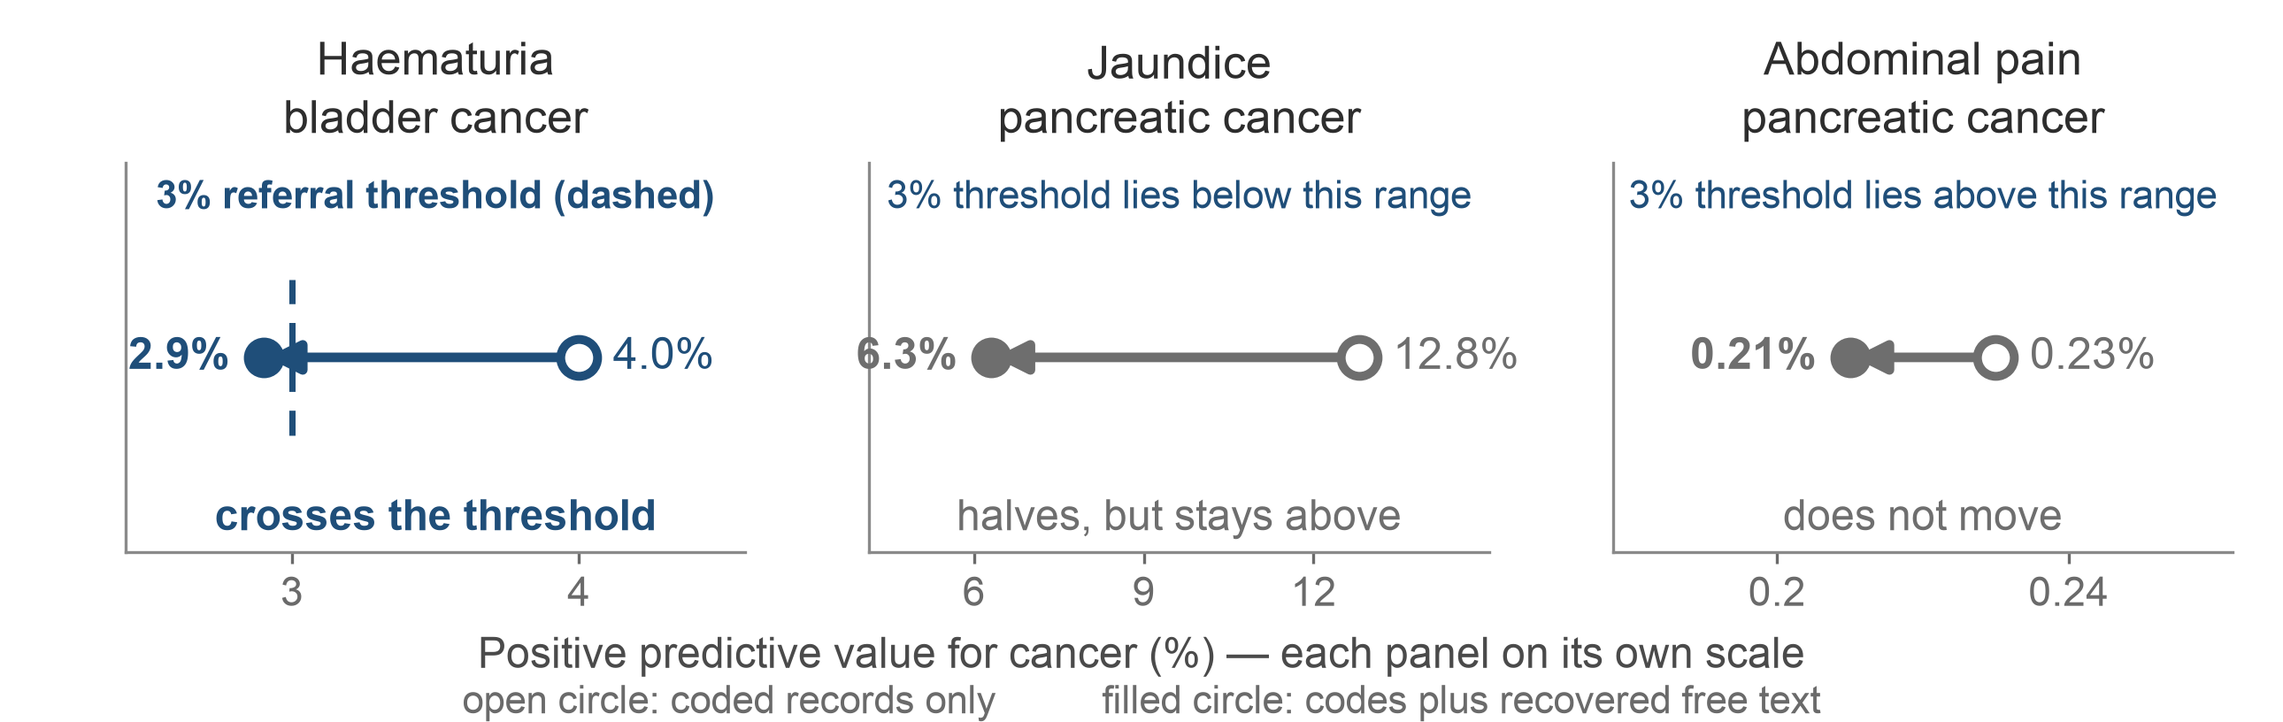
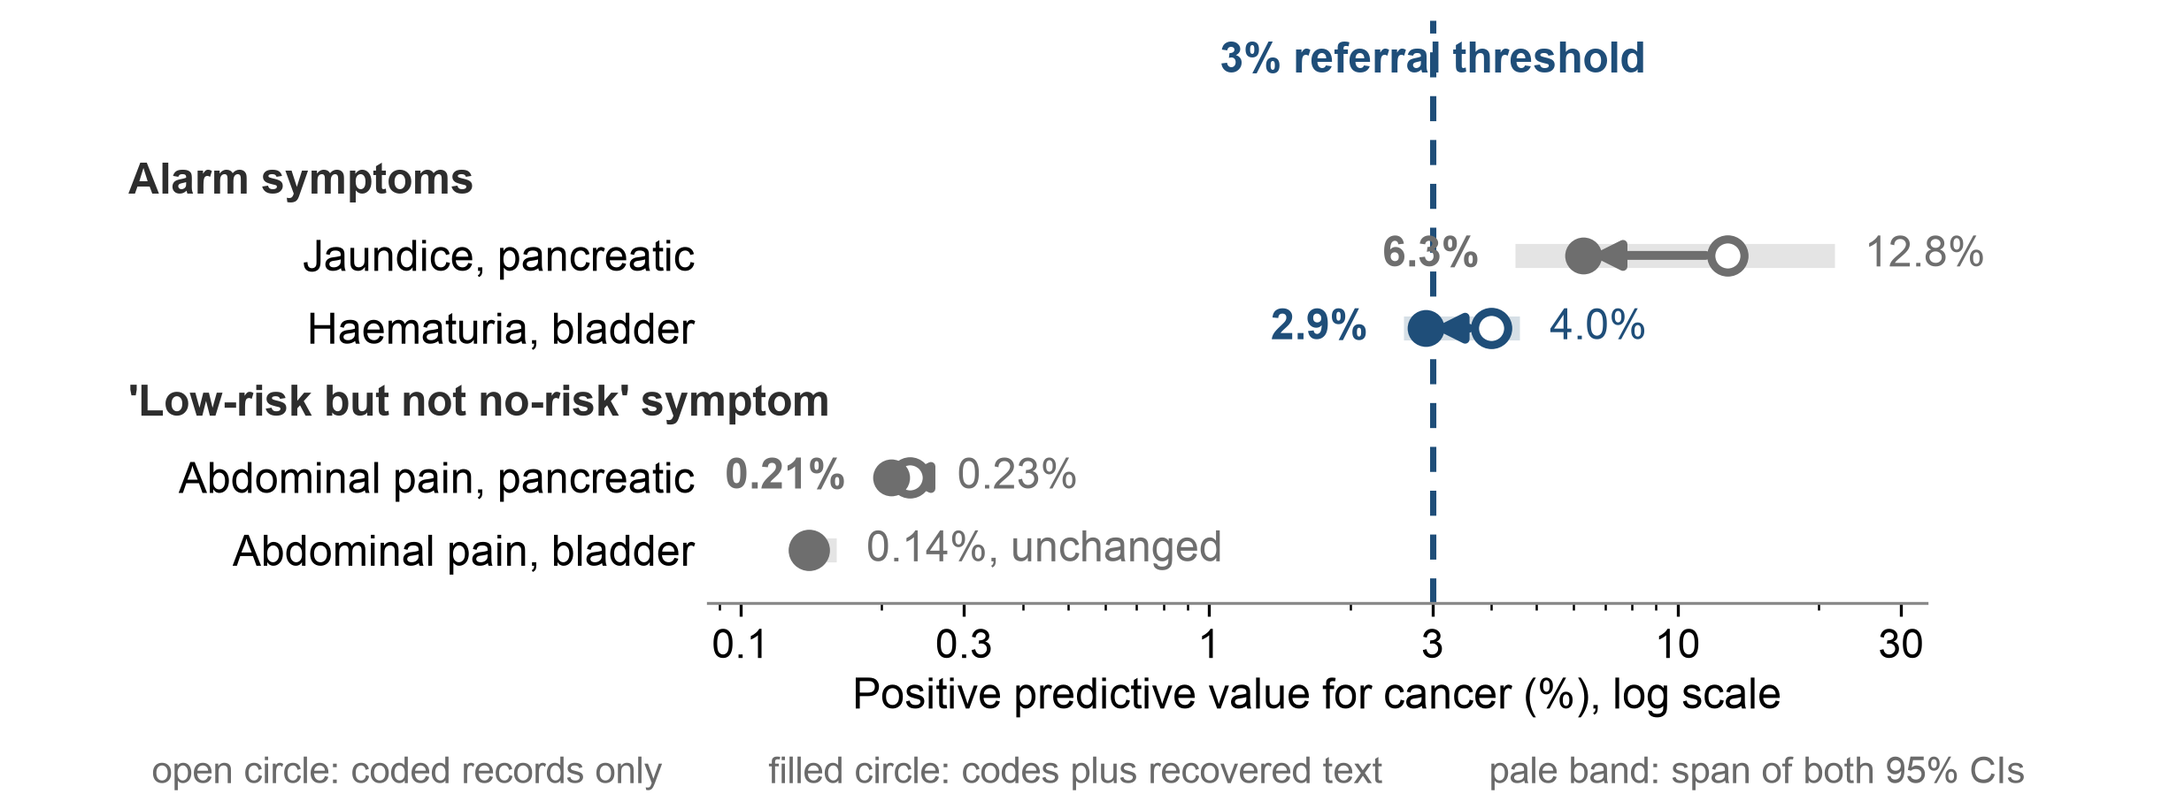
Show all four Price pairs in one chart; document the selection
The previous figure showed three of the four symptom/cancer pairs Price et al.
report, omitting abdominal pain for bladder cancer (0.14% unchanged). Showing a
subset invites the question of how the subset was chosen, so all four are now
plotted, grouped as the paper groups them into alarm features and one low-risk
but not no-risk feature. The selection is the paper's own and is now stated in
the README.

Three small multiples are replaced by one chart on a log x axis: the values span
0.14 to 12.8 per cent, which a single linear axis cannot show without burying
the one pair that crosses the threshold.

Added a pale band spanning both confidence intervals, so it is visible that the
corrected haematuria estimate of 2.9 per cent has a CI of 2.6 to 3.2 and still
includes 3. The README states the claim this supports and the claim it does not.

diff --git a/code/figures.py b/code/figures.py
@@ -5,11 +5,11 @@ prediction models in UK primary care"
 
 Reproduces three figures from the CSVs in ../data:
 
-  fig_forest.png     — d'Elia et al. (2025) Table 3: odds of a symptom being
+  fig_forest.png: d'Elia et al. (2025) Table 3: odds of a symptom being
                        coded, by ethnicity and deprivation (CPRD Aurum)
-  fig_threshold.png  — Price et al. (2016): positive predictive values before
+  fig_threshold.png: Price et al. (2016): positive predictive values before
                        and after recovering free-text records
-  fig_pooling.png    — illustration of subgroup calibration slopes pooling to
+  fig_pooling.png: illustration of subgroup calibration slopes pooling to
                        a value that describes neither subgroup
 
 Usage:  python code/figures.py            (writes into figures/)
@@ -65,7 +65,7 @@ def read_rows(name):
 
 
 def forest():
-    """d'Elia Table 3 — odds that a symptom was coded, by patient group."""
+    """d'Elia Table 3: odds that a symptom was coded, by patient group."""
     raw = read_rows("delia2025_table3.csv")
     grouped = {g: [r for r in raw if r["group"] == g] for g in GROUP_ORDER}
     n_total = len(raw)
@@ -125,68 +125,82 @@ def forest():
 
 
 def threshold():
-    """Price 2016 — PPV with coded records only vs codes plus recovered text.
+    """Price 2016: PPV with coded records only, then with recovered free text.
 
-    Drawn as small multiples with a per-panel scale, deliberately. On a shared
-    0-15% axis the jaundice movement (12.8 to 6.3) occupies 43% of the axis
-    while haematuria (4.0 to 2.9) occupies 7% - so the visually dominant series
-    is the secondary finding and the one that actually crosses the referral
-    threshold is nearly invisible. Per-panel scales give each movement the same
-    visual weight; the axis labels carry the magnitude.
+    All four symptom/cancer pairs the paper reports are shown, grouped as the
+    paper groups them, into alarm features and one "low-risk but not no-risk"
+    feature. Showing three of four would look like selection.
+
+    The x axis is logarithmic because the four values span 0.14% to 12.8%. On a
+    linear 0-15% axis the jaundice movement fills 43% of the width while
+    haematuria, the only pair that crosses the referral threshold, fills 7%,
+    so the visual emphasis lands on the secondary finding.
     """
     raw = read_rows("price2016_ppv.csv")
-    # per-panel x-range and ticks, chosen so each movement fills its panel
-    VIEW = {"Haematuria": ((2.42, 4.58), [3, 4], "in"),
-            "Jaundice": ((4.15, 15.1), [6, 9, 12], "below"),
-            "Abdominal pain": ((0.1775, 0.2625), [0.20, 0.24], "above")}
-    NOTE = {"in": "3% referral threshold (dashed)",
-            "below": "3% threshold lies below this range",
-            "above": "3% threshold lies above this range"}
-    VERDICT = {"in": "crosses the threshold", "below": "halves, but stays above",
-               "above": "does not move"}
+    groups = []
+    for r in raw:
+        if not groups or groups[-1][0] != r["group"]:
+            groups.append((r["group"], []))
+        groups[-1][1].append(r)
 
-    fig, axes = plt.subplots(1, 3, figsize=(8.6, 2.72))
-    Y, L0, L1 = 0.50, 0.30, 0.70
-    for ax, r in zip(axes, raw):
-        a = float(r["ppv_coded_only"])
-        b = float(r["ppv_codes_plus_text"])
-        xr, ticks, thr = VIEW[r["symptom"]]
-        colour = NAVY if r["crosses_3pc"] == "yes" else GREY
-        ax.set_xlim(*xr)
-        ax.set_ylim(0, 1)
-        if thr == "in":
-            # a short vertical segment, not axvline: a full-height line runs
-            # through the value labels and the verdict text
-            ax.vlines(3.0, L0, L1, color=NAVY, ls=(0, (4, 3)), lw=1.7, zorder=1)
-        ax.annotate("", xy=(b, Y), xytext=(a, Y),
-                    arrowprops=dict(arrowstyle="-|>", color=colour, lw=2.6,
-                                    shrinkA=5, shrinkB=1, mutation_scale=17))
-        ax.plot([a], [Y], "o", ms=10, color=colour, mfc="white", mew=2.4, zorder=3)
-        ax.plot([b], [Y], "o", ms=10, color=colour, zorder=3)
-        span = xr[1] - xr[0]
-        ax.text(b - span * 0.055, Y, f"{b}%", color=colour, ha="right", va="center",
-                fontsize=12, fontweight="bold")
-        ax.text(a + span * 0.055, Y, f"{a}%", color=colour, ha="left", va="center", fontsize=12)
-        ax.set_title(f"{r['symptom']}\n{r['cancer'].lower()} cancer", fontsize=12.5,
-                     color="#2D2D2D", pad=8, linespacing=1.35)
-        ax.set_yticks([])
-        ax.set_xticks(ticks)
-        ax.set_xticklabels([f"{t:g}" for t in ticks], fontsize=11)
-        ax.tick_params(axis="x", length=3, colors="#6A6A6A")
-        ax.text(0.5, 0.955, NOTE[thr], transform=ax.transAxes, color=NAVY, fontsize=10.5,
-                ha="center", va="top", fontweight="bold" if thr == "in" else "normal")
-        ax.text(0.5, 0.085, VERDICT[thr], transform=ax.transAxes, color=colour, fontsize=11.5,
-                ha="center", va="center", fontweight="bold" if thr == "in" else "normal")
+    fig, ax = plt.subplots(figsize=(8.2, 3.05))
+    y = 0.0
+    ticks, labels, headers = [], [], []
+    for gname, items in groups:
+        y -= 1.05
+        headers.append((y, gname))
+        for r in items:
+            y -= 1.0
+            a = float(r["ppv_coded_only"])
+            b = float(r["ppv_codes_plus_text"])
+            lo = min(float(r["ci_low_coded"]), float(r["ci_low_both"]))
+            hi = max(float(r["ci_high_coded"]), float(r["ci_high_both"]))
+            colour = NAVY if r["crosses_3pc"] == "yes" else GREY
+            # pale band spans both intervals, so the reader sees that the
+            # corrected haematuria CI (2.6-3.2) still includes 3
+            ax.plot([lo, hi], [y, y], color=colour, lw=6.5, alpha=0.18,
+                    solid_capstyle="butt", zorder=1)
+            ax.annotate("", xy=(b, y), xytext=(a, y),
+                        arrowprops=dict(arrowstyle="-|>", color=colour, lw=2.4,
+                                        shrinkA=6, shrinkB=2, mutation_scale=15), zorder=2)
+            ax.plot([a], [y], "o", ms=9, color=colour, mfc="white", mew=2.2, zorder=3)
+            ax.plot([b], [y], "o", ms=9, color=colour, zorder=3)
+            if abs(a - b) < 1e-9:
+                ax.text(hi * 1.16, y, f"{a}%, unchanged", color=colour,
+                        ha="left", va="center", fontsize=11.5)
+            else:
+                ax.text(lo * 0.84, y, f"{b}%", color=colour, ha="right", va="center",
+                        fontsize=11.5, fontweight="bold")
+                ax.text(hi * 1.16, y, f"{a}%", color=colour, ha="left", va="center", fontsize=11.5)
+            ticks.append(y)
+            labels.append(f"{r['symptom']}, {r['cancer']}")
+    ybot = y - 0.72
 
-    fig.text(0.5, 0.075, "Positive predictive value for cancer (%) \u2014 each panel on its own scale",
-             ha="center", fontsize=11.5, color="#4A4A4A")
-    fig.text(0.5, 0.012,
-             "open circle: coded records only          filled circle: codes plus recovered free text",
-             ha="center", fontsize=10.5, color="#6A6A6A")
-    fig.subplots_adjust(left=0.055, right=0.978, top=0.775, bottom=0.235, wspace=0.20)
-    check_panels_clean(fig, axes, dashed_at=(axes[0], 3.0, L0, L1))
+    for yy, gname in headers:
+        ax.text(-0.475, yy, gname, transform=ax.get_yaxis_transform(), ha="left",
+                va="center", fontsize=11.5, fontweight="bold", color="#2D2D2D", clip_on=False)
+    ax.axvline(3.0, color=NAVY, ls=(0, (4, 3)), lw=1.7, zorder=1)
+    ax.text(3.0, 0.34, "3% referral threshold", color=NAVY, fontsize=11.5,
+            fontweight="bold", ha="center", va="bottom")
+    ax.set_xscale("log")
+    ax.set_xlim(0.085, 34)
+    ax.set_ylim(ybot, 1.18)
+    ax.set_xticks([0.1, 0.3, 1, 3, 10, 30])
+    ax.set_xticklabels(["0.1", "0.3", "1", "3", "10", "30"], fontsize=11)
+    ax.set_yticks(ticks)
+    ax.set_yticklabels(labels, fontsize=11.5)
+    ax.tick_params(axis="y", length=0)
+    ax.spines["left"].set_visible(False)
+    ax.set_xlabel("Positive predictive value for cancer (%), log scale", fontsize=11.5, labelpad=3)
+    fig.text(0.5, 0.032,
+             "open circle: coded records only          filled circle: codes plus recovered text"
+             "          pale band: span of both 95% CIs",
+             ha="center", fontsize=10, color="#6A6A6A")
+    fig.subplots_adjust(left=0.325, right=0.885, top=0.975, bottom=0.255)
+    check_no_overlap(fig, ax)
     fig.savefig(OUT / "fig_threshold.png", facecolor="white")
     plt.close(fig)
+    return len(raw)
 
 
 def pooling():
@@ -235,48 +249,12 @@ def pooling():
     return [float(r["calibration_slope"]) for r in subs], float(pooled["calibration_slope"])
 
 
-def check_panels_clean(fig, axes, dashed_at=None):
-    """Multi-panel version of check_no_overlap, plus a dashed-line check.
-
-    dashed_at=(ax, x, y0, y1) asserts that the short dashed segment drawn at
-    data-x on that axis does not pass through any text. The plain text-vs-text
-    check cannot catch this: a Line2D is not a Text, so a line running straight
-    through four labels passes silently.
-    """
-    fig.canvas.draw()
-    r = fig.canvas.get_renderer()
-    items = []
-    for ax in axes:
-        for t in list(ax.texts) + [ax.title] + ax.get_xticklabels():
-            if t.get_text().strip():
-                items.append((ax, t, t.get_window_extent(r)))
-    problems = []
-    for i, (_, a, ba) in enumerate(items):
-        for _, b, bb in items[i + 1:]:
-            if ba.overlaps(bb):
-                problems.append(f"{a.get_text()[:22]!r} overlaps {b.get_text()[:22]!r}")
-    fb = fig.bbox
-    for _, t, bb in items:
-        if bb.x0 < fb.x0 or bb.x1 > fb.x1 or bb.y0 < fb.y0 or bb.y1 > fb.y1:
-            problems.append(f"{t.get_text()[:22]!r} runs outside the canvas")
-    if dashed_at:
-        ax, xdata, y0, y1 = dashed_at
-        xpix = ax.transData.transform((xdata, 0))[0]
-        ylo = ax.transAxes.transform((0, y0))[1]
-        yhi = ax.transAxes.transform((0, y1))[1]
-        for a_, t, bb in items:
-            if a_ is ax and bb.x0 <= xpix <= bb.x1 and bb.y1 >= ylo and bb.y0 <= yhi:
-                problems.append(f"dashed line crosses {t.get_text()[:22]!r}")
-    if problems:
-        raise AssertionError("figure has layout faults:\n  " + "\n  ".join(problems))
-
-
 def check_no_overlap(fig, ax):
     """Fail loudly if any two visible text boxes collide, or text sits on a spine.
 
     A figure that silently overlaps its own labels is a wrong figure. This is a
-    geometric check only — it cannot see a leader line pointing at the wrong
-    row, so anchor annotations to looked-up coordinates rather than eyeballed
+    geometric check only: it cannot see a leader line pointing at the wrong
+    row, so anchor annotations to looked-up coordinates instead of eyeballed
     ones (see forest(), which looks up the 'Hip pain' row).
     """
     import matplotlib as mpl
@@ -284,6 +262,11 @@ def check_no_overlap(fig, ax):
     renderer = fig.canvas.get_renderer()
     texts = [(t, t.get_window_extent(renderer)) for t in fig.findobj(mpl.text.Text)
              if t.get_text().strip() and t.get_visible()]
+    canvas = fig.bbox
+    for t, box in texts:
+        if box.x0 < canvas.x0 - 1 or box.x1 > canvas.x1 + 1:
+            problems_outside = f"{t.get_text()[:24]!r} runs outside the canvas"
+            raise AssertionError(problems_outside)
     ticklabels = set(ax.get_xticklabels() + ax.get_yticklabels())
     problems = []
     for i, (a, box_a) in enumerate(texts):
@@ -303,9 +286,9 @@ def check_no_overlap(fig, ax):
 if __name__ == "__main__":
     house_style()
     n_above, n_total = forest()
-    threshold()
+    n_pairs = threshold()
     slopes, pooled = pooling()
     print(f"fig_forest.png      {n_above} of {n_total} associations above 1")
-    print("fig_threshold.png   3 panels, each on its own scale")
+    print(f"fig_threshold.png   {n_pairs} symptom/cancer pairs, log scale")
     print(f"fig_pooling.png     subgroups {slopes} pool to {pooled}")
     print(f"all figures in {OUT}")

diff --git a/code/barclay_panels.py b/code/barclay_panels.py
@@ -90,8 +90,8 @@ def calibrate_axis(page, top, x0, x1):
     """Return (row_of_3pc, baseline_row) for one panel, from its own gridlines.
 
     Raises if the linear fit of gridline row against axis value does not hold
-    to within 3 pixels — a silently miscalibrated reference line would be a
-    data-fidelity error, not a cosmetic one.
+    to within 3 pixels. A silently miscalibrated reference line is a data-fidelity
+    error, not a cosmetic one.
     """
     grey = np.array(page.convert("L"))
     # the 0.00 axis is a near-black line spanning the full plot width
@@ -137,8 +137,8 @@ def find_plot_right_edge(page, top, baseline, x_from, x_to):
     """Rightmost x carrying stacked-area fill.
 
     The black title bar is WIDER than the plotting area, so its right edge must
-    not be used as a sampling column — doing so samples empty margin and
-    silently returns near-zero band thicknesses.
+    not be used as a sampling column. Doing so samples empty margin and silently
+    returns near-zero band thicknesses.
     """
     hsv = np.array(page.convert("HSV"))
     saturated = (hsv[:, :, 1].astype(int) > 60) & (hsv[:, :, 2].astype(int) > 90)
@@ -188,7 +188,7 @@ def compose(page, pdf_path, scale=0.70):
         print(f"{panel}: largest single site = {top_site} at {top_val * 100:.1f}% "
               f"({'exceeds' if top_val > 0.03 else 'below'} the 3% threshold)")
     # the whole point of the annotation: haematuria has a single site above 3%,
-    # fatigue does not. Assert it rather than trusting the eye.
+    # fatigue does not. Assert it instead of trusting the eye.
     assert max(measured["Haematuria"].values()) > 0.03
     assert max(measured["Fatigue"].values()) < 0.03
 

diff --git a/verification/check_sources.py b/verification/check_sources.py
@@ -5,12 +5,12 @@ Run:  python verification/check_sources.py
 
 Two kinds of check:
 
-  A. Internal consistency of each published confidence interval — a 99.76% CI on
-     an odds ratio should be roughly symmetric on the log scale, so its
-     geometric centre sqrt(lower*upper) should sit close to the point estimate.
+  A. Internal consistency of each published confidence interval. A 99.76% CI on an
+     odds ratio should be roughly symmetric on the log scale, so its geometric
+     centre sqrt(lower*upper) should sit close to the point estimate.
      An interval that fails this is either a typo or a different quantity.
 
-  B. Threshold arithmetic — which predictive values cross the 3% line that NICE
+  B. Threshold arithmetic: which predictive values cross the 3% line that NICE
      used when building the urgent referral criteria.
 
 Check A found three discrepancies between the ABSTRACT of d'Elia et al. (2025)
@@ -123,7 +123,7 @@ def check_symptom_overlap():
     d'Elia studied prodromal symptoms of rheumatoid arthritis, not cancer. The
     argument therefore rests on an explicit bridge: symptoms that appear both in
     d'Elia's coding-disparity results and in Barclay's fifteen cancer presenting
-    symptoms. This computes that intersection rather than asserting it.
+    symptoms. This computes that intersection instead of asserting it.
     """
     print("\nF. Bridge between the two evidence sources")
     rows = list(csv.DictReader(open(DATA / "delia2025_table3.csv", newline="")))

diff --git a/README.md b/README.md
@@ -22,10 +22,10 @@ The presentation makes three empirical claims. Each is checkable here:
 | The symptoms nearest that threshold are the non-specific ones | Barclay et al. (2024), CPRD, 1,622,419 patients, Figure 2 | [`figures/fig_barclay_panels.png`](figures/fig_barclay_panels.png) |
 
 The two symptoms that appear in **both** d'Elia's coding-disparity list and
-Barclay's fifteen cancer presenting symptoms are **fatigue** and **weight loss** —
-the non-specific ones, which are also the ones whose single-site cancer risk
-never crosses 3%. That overlap is what closes the argument, and it is computed,
-not asserted: the intersection is derived in `verification/check_sources.py`.
+Barclay's fifteen cancer presenting symptoms are **fatigue** and **weight loss**.
+These are the non-specific ones, and they are also the ones whose single-site
+cancer risk never crosses 3%. That overlap is what closes the argument, and it is
+computed in `verification/check_sources.py`, not asserted.
 
 ---
 
@@ -59,7 +59,7 @@ text-vs-text test could not see:
 | An arrow pointed right while its label read "never crosses" | no check on semantic direction | the schematic was replaced by the source figure |
 
 The last one is the reason `fig_barclay_panels.png` reuses the published figure
-rather than redrawing it: where a source figure exists and its licence permits
+instead of redrawing it. Where a source figure exists and its licence permits
 reuse, reusing it removes a whole class of error.
 
 ---
@@ -82,8 +82,8 @@ values as printed in the **abstract** of the same paper do not:
 
 **The presentation uses the Table 3 values throughout.** This is recorded
 because verifying that an interval is consistent with its own point estimate is
-the kind of check the symptom code lists in Aim 1 will require — not because it
-affects the argument, which holds on either set of numbers.
+the kind of check the symptom code lists in Aim 1 will require. It does not affect
+the argument, which holds on either set of numbers.
 
 ---
 
@@ -97,8 +97,8 @@ a misreading.
 `code/barclay_panels.py` measures each site's band separately, by matching pixel
 colours against the paper's own legend swatches:
 
-- **Haematuria** — urological cancer alone reaches **11.6%** at the oldest age; two sites exceed 3%.
-- **Fatigue** — the largest single site reaches **1.8%**; no site exceeds 3%, although the stack sums to 6.1%.
+- **Haematuria**: urological cancer alone reaches **11.6%** at the oldest age, and two sites exceed 3%.
+- **Fatigue**: the largest single site reaches **1.8%**. No site exceeds 3%, although the stack sums to 6.1%.
 
 The annotation on the figure reports the single-site value, and the script
 asserts this contrast holds before drawing anything.
@@ -109,13 +109,32 @@ gridlines and black baseline, fits pixel row against axis value, and raises an
 
 ---
 
+## Why these four symptom/cancer pairs
+
+All four pairs that Price et al. report are shown. The selection is theirs, not
+mine: they chose three clinical features as representative of alarm features and
+of "low-risk but not no-risk" features, namely visible haematuria for bladder
+cancer, jaundice for pancreatic cancer, and abdominal pain as a low-risk symptom
+common to both cancers. Abdominal pain therefore yields two pairs, one per
+cancer, giving four in total.
+
+Only haematuria crosses the 3% threshold when free-text records are recovered,
+and one detail matters for how strongly that can be claimed: the corrected
+estimate is 2.9% with a 95% CI of 2.6 to 3.2, which still includes 3. The figure
+shows the span of both intervals as a pale band, so this is visible instead of
+buried in the caption. The claim the project rests on is that recording
+completeness moves a predictive value across a decision threshold, not that this
+particular point estimate is definitively below it.
+
+---
+
 ## How this sits against existing work in the department
 
 The Nuffield Department of Primary Care Health Sciences has already asked a
 closely related question of a different predictor class:
 
-- **Virdee, Oke, Bankhead, et al. (2025)**, *JMIR Cancer* 11:e70275 — reviewed 7 cancer risk models built on blood-test trends. Across 14 external validations, **one** assessed calibration; all but one study scored high risk of bias in the analysis domain.
-- **Nicholson, Bankhead, et al. (2019)**, *BMC Medicine* 17:222 — characterised weight recording in 5 million adults, and found the **white** ethnic group *less* likely to have weight recorded.
+- **Virdee, Oke, Bankhead, et al. (2025)**, *JMIR Cancer* 11:e70275. Reviewed 7 cancer risk models built on blood-test trends. Across 14 external validations, **one** assessed calibration, and all but one study scored high risk of bias in the analysis domain.
+- **Nicholson, Bankhead, et al. (2019)**, *BMC Medicine* 17:222. Characterised weight recording in 5 million adults, and found the **white** ethnic group *less* likely to have weight recorded.
 
 Two consequences for this proposal:
 
@@ -141,11 +160,11 @@ figures/                              generated output
 
 ## Sources
 
-- **d'Elia A, Baranskaya A, Haroon S, et al.** Prodromal symptoms of rheumatoid arthritis in a primary care database: variation by ethnicity and socioeconomic status. *Rheumatology* 2025;64(3):1029–1035. [doi:10.1093/rheumatology/keae157](https://doi.org/10.1093/rheumatology/keae157) — CC BY 4.0
+- **d'Elia A, Baranskaya A, Haroon S, et al.** Prodromal symptoms of rheumatoid arthritis in a primary care database: variation by ethnicity and socioeconomic status. *Rheumatology* 2025;64(3):1029–1035. [doi:10.1093/rheumatology/keae157](https://doi.org/10.1093/rheumatology/keae157). CC BY 4.0
 - **Price SJ, Stapley SA, Shephard E, et al.** Is omission of free text records a possible source of data loss and bias in CPRD studies? *BMJ Open* 2016;6:e011664. [doi:10.1136/bmjopen-2016-011664](https://doi.org/10.1136/bmjopen-2016-011664)
 - **Virdee PS, Collins KK, Smith CF, et al.** Clinical prediction models incorporating blood test trend for cancer detection: systematic review, meta-analysis, and critical appraisal. *JMIR Cancer* 2025;11:e70275. [doi:10.2196/70275](https://doi.org/10.2196/70275)
 - **Nicholson BD, Aveyard P, Bankhead C, et al.** Determinants and extent of weight recording in UK primary care. *BMC Medicine* 2019;17:222. [doi:10.1186/s12916-019-1446-y](https://doi.org/10.1186/s12916-019-1446-y)
-- **Barclay ME, Renzi C, Harrison H, et al.** Cancer incidence and competing mortality risk following 15 presenting symptoms in primary care. *BMJ Oncology* 2024;3:e000500. [doi:10.1136/bmjonc-2024-000500](https://doi.org/10.1136/bmjonc-2024-000500) — CC BY 4.0
+- **Barclay ME, Renzi C, Harrison H, et al.** Cancer incidence and competing mortality risk following 15 presenting symptoms in primary care. *BMJ Oncology* 2024;3:e000500. [doi:10.1136/bmjonc-2024-000500](https://doi.org/10.1136/bmjonc-2024-000500). CC BY 4.0
 - **Luijken K, Groenwold RHH, Van Calster B, et al.** Impact of predictor measurement heterogeneity across settings on the performance of prediction models. *Statistics in Medicine* 2019;38(18):3444–3459. [doi:10.1002/sim.8183](https://doi.org/10.1002/sim.8183)
 - **Van Calster B, McLernon DJ, van Smeden M, et al.** Calibration: the Achilles heel of predictive analytics. *BMC Medicine* 2019;17:230. [doi:10.1186/s12916-019-1466-7](https://doi.org/10.1186/s12916-019-1466-7)
 
